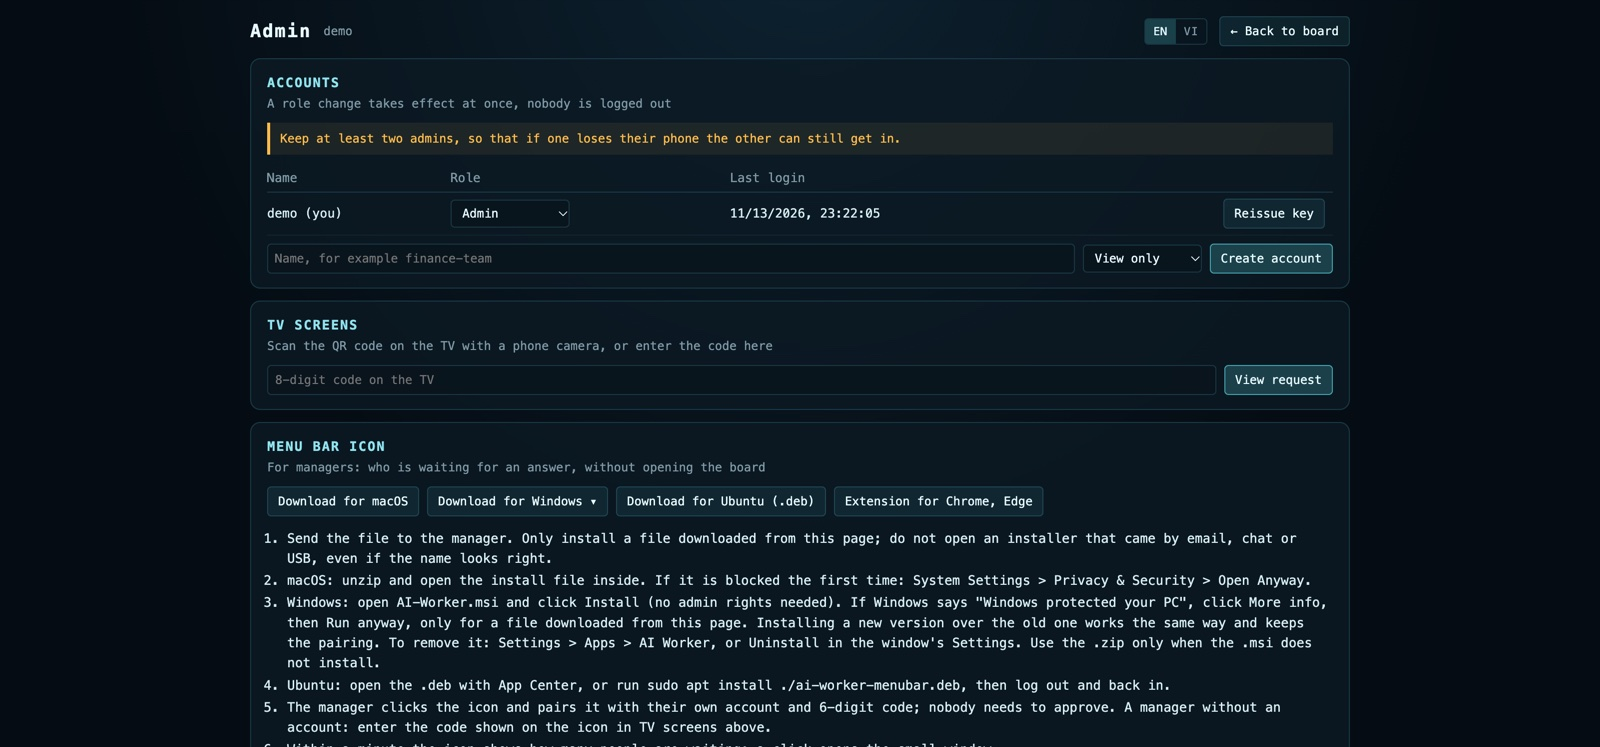
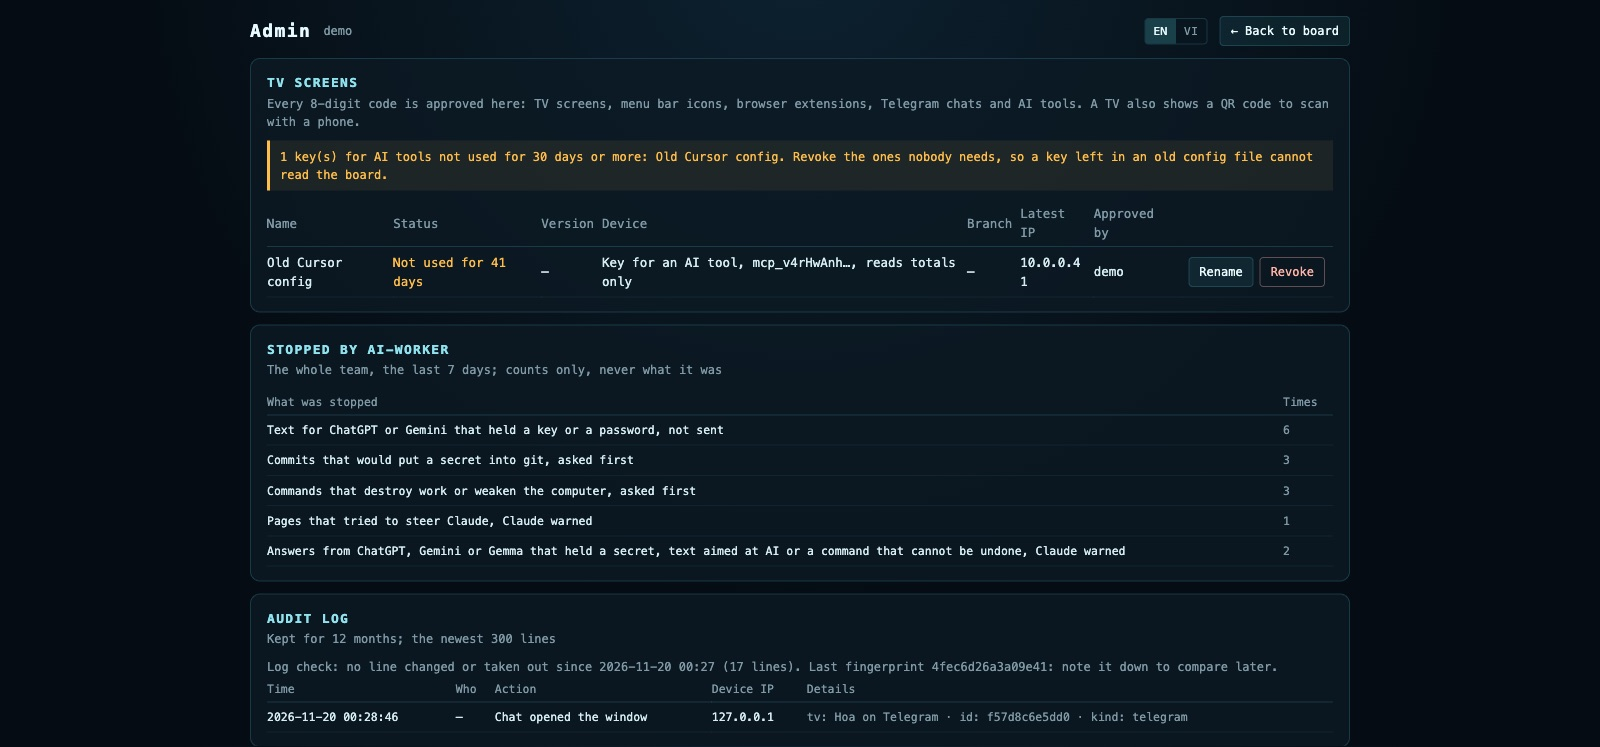
0.47.7: Vietnamese AI project reports write days as DD/MM/YYYY, and the README leads with the cost and performance report

diff --git a/server/board/costreport.py b/server/board/costreport.py
@@ -321,6 +321,17 @@ def num(v, digits=0):
     return "{:,.{d}f}".format(v, d=digits)
 
 
+DAY_RE = re.compile(r"\b(\d{4})-(\d{2})-(\d{2})\b")
+
+
+def show_dates(text, L):
+    """Every day written YYYY-MM-DD in a text, the way the report's language writes it: DD/MM/YYYY in Vietnamese, as it is in English.
+    Only what people read changes; the CSV, the file names and --from/--to keep YYYY-MM-DD.
+    Mọi ngày viết YYYY-MM-DD trong một đoạn chữ, theo cách ngôn ngữ của báo cáo viết: DD/MM/YYYY trong tiếng Việt, giữ nguyên trong tiếng Anh.
+    Chỉ đổi chỗ người đọc; CSV, tên file và --from/--to vẫn giữ YYYY-MM-DD."""
+    return DAY_RE.sub(r"\3/\2/\1", text) if L.get("lang") == "vi" else text
+
+
 def load_labels(lang):
     with open(os.path.join(HERE, "labels.json"), encoding="utf-8") as f:
         labels = json.load(f)
@@ -404,7 +415,7 @@ def render_html(r, L, prices, title, env, period, screen=False):
     """The report as one HTML page: by default the paper version, to print or save as PDF; screen=True is the version a page shows.
     Báo cáo dạng một trang HTML: mặc định là bản giấy, để in hay lưu PDF; screen=True là bản để một trang web hiện."""
     e = html.escape
-    made = datetime.now(timezone.utc).strftime("%Y-%m-%d %H:%M UTC")
+    made = show_dates(datetime.now(timezone.utc).strftime("%Y-%m-%d %H:%M UTC"), L)
     if screen:
         style = CSS
     else:
@@ -414,8 +425,9 @@ def render_html(r, L, prices, title, env, period, screen=False):
         style = PAPER_CSS % {"foot": foot}
     out = ['<!doctype html><html lang="%s"><head><meta charset="utf-8"><meta name="viewport" content="width=device-width,initial-scale=1">' % e(L["lang"]),
            "<title>%s</title><style>%s</style></head><body>" % (e(title), style)]
-    first = r["first"].strftime("%Y-%m-%d %H:%M") if r["first"] else "-"
-    last = r["last"].strftime("%Y-%m-%d %H:%M") if r["last"] else "-"
+    first = show_dates(r["first"].strftime("%Y-%m-%d %H:%M"), L) if r["first"] else "-"
+    last = show_dates(r["last"].strftime("%Y-%m-%d %H:%M"), L) if r["last"] else "-"
+    period = show_dates(period, L)
     if screen:
         out.append("<main><h1>%s</h1>" % e(title))
         span = "%s: %s → %s UTC · " % (e(L["period"]), first, last) if r["first"] else ""
@@ -495,7 +507,7 @@ def render_html(r, L, prices, title, env, period, screen=False):
         if a["costTurns"] and a["unpricedTurns"]:
             cost += " *"
         rows.append('<tr><td>%s</td><td>%s</td>%s%s<td class="t">%s</td><td>%s</td></tr>' % (
-            e(model), e(prov), "".join("<td>%s</td>" % num(a[k]) for k in ("turns", "calls", "errors", "retries")), "".join(toks), e(cost), e(pdate)))
+            e(model), e(prov), "".join("<td>%s</td>" % num(a[k]) for k in ("turns", "calls", "errors", "retries")), "".join(toks), e(cost), e(show_dates(pdate, L))))
     out.append(table(rows, "models"))
 
     if r["alt"]:
@@ -512,7 +524,7 @@ def render_html(r, L, prices, title, env, period, screen=False):
     rows = ["<tr><th>%s</th><th>%s</th><th>%s</th><th>%s</th><th>%s</th><th>%s</th></tr>" % tuple(e(L[k]) for k in ("day", "turns", "errorsTimeouts", "avgMs", "p95Ms", "cost"))]
     for day, d in sorted(r["days"].items()):
         rows.append("<tr><td>%s</td><td>%s</td><td>%s</td><td>%s</td><td>%s</td><td>%s</td></tr>" % (
-            day, num(d["turns"]), num(d["errors"]), num(avg(d["ms"])), num(p95(d["ms"])), e(usd(d["cost"]) if d["costTurns"] else "-")))
+            show_dates(day, L), num(d["turns"]), num(d["errors"]), num(avg(d["ms"])), num(p95(d["ms"])), e(usd(d["cost"]) if d["costTurns"] else "-")))
     out.append(table(rows))
 
     return "".join(out + sources(prices, L, e))
@@ -525,11 +537,11 @@ def sources(prices, L, e):
     for prov, p in sorted(prices.doc.get("providers", {}).items()):
         if p.get("yours") or not str(p.get("source", "")).startswith("https://"):
             continue
-        out.append('<li>%s: <a href="%s">%s</a> (%s %s)</li>' % (e(prov), e(p["source"]), e(p["source"]), e(L["checked"]), e(p["checked"])))
+        out.append('<li>%s: <a href="%s">%s</a> (%s %s)</li>' % (e(prov), e(p["source"]), e(p["source"]), e(L["checked"]), e(show_dates(p["checked"], L))))
     for name in prices.yours:
         out.append("<li>%s</li>" % e(L["yourPrices"] % {"file": name}))
     out.append("</ul>")
-    out.append("<footer>%s</footer></section></main></body></html>" % e(L["footer"] % {"made": datetime.now(timezone.utc).strftime("%Y-%m-%d %H:%M UTC")}))
+    out.append("<footer>%s</footer></section></main></body></html>" % e(L["footer"] % {"made": show_dates(datetime.now(timezone.utc).strftime("%Y-%m-%d %H:%M UTC"), L)}))
     return out
 
 

diff --git a/skills/ai-cost-report/report.py b/skills/ai-cost-report/report.py
@@ -321,6 +321,17 @@ def num(v, digits=0):
     return "{:,.{d}f}".format(v, d=digits)
 
 
+DAY_RE = re.compile(r"\b(\d{4})-(\d{2})-(\d{2})\b")
+
+
+def show_dates(text, L):
+    """Every day written YYYY-MM-DD in a text, the way the report's language writes it: DD/MM/YYYY in Vietnamese, as it is in English.
+    Only what people read changes; the CSV, the file names and --from/--to keep YYYY-MM-DD.
+    Mọi ngày viết YYYY-MM-DD trong một đoạn chữ, theo cách ngôn ngữ của báo cáo viết: DD/MM/YYYY trong tiếng Việt, giữ nguyên trong tiếng Anh.
+    Chỉ đổi chỗ người đọc; CSV, tên file và --from/--to vẫn giữ YYYY-MM-DD."""
+    return DAY_RE.sub(r"\3/\2/\1", text) if L.get("lang") == "vi" else text
+
+
 def load_labels(lang):
     with open(os.path.join(HERE, "labels.json"), encoding="utf-8") as f:
         labels = json.load(f)
@@ -404,7 +415,7 @@ def render_html(r, L, prices, title, env, period, screen=False):
     """The report as one HTML page: by default the paper version, to print or save as PDF; screen=True is the version a page shows.
     Báo cáo dạng một trang HTML: mặc định là bản giấy, để in hay lưu PDF; screen=True là bản để một trang web hiện."""
     e = html.escape
-    made = datetime.now(timezone.utc).strftime("%Y-%m-%d %H:%M UTC")
+    made = show_dates(datetime.now(timezone.utc).strftime("%Y-%m-%d %H:%M UTC"), L)
     if screen:
         style = CSS
     else:
@@ -414,8 +425,9 @@ def render_html(r, L, prices, title, env, period, screen=False):
         style = PAPER_CSS % {"foot": foot}
     out = ['<!doctype html><html lang="%s"><head><meta charset="utf-8"><meta name="viewport" content="width=device-width,initial-scale=1">' % e(L["lang"]),
            "<title>%s</title><style>%s</style></head><body>" % (e(title), style)]
-    first = r["first"].strftime("%Y-%m-%d %H:%M") if r["first"] else "-"
-    last = r["last"].strftime("%Y-%m-%d %H:%M") if r["last"] else "-"
+    first = show_dates(r["first"].strftime("%Y-%m-%d %H:%M"), L) if r["first"] else "-"
+    last = show_dates(r["last"].strftime("%Y-%m-%d %H:%M"), L) if r["last"] else "-"
+    period = show_dates(period, L)
     if screen:
         out.append("<main><h1>%s</h1>" % e(title))
         span = "%s: %s → %s UTC · " % (e(L["period"]), first, last) if r["first"] else ""
@@ -495,7 +507,7 @@ def render_html(r, L, prices, title, env, period, screen=False):
         if a["costTurns"] and a["unpricedTurns"]:
             cost += " *"
         rows.append('<tr><td>%s</td><td>%s</td>%s%s<td class="t">%s</td><td>%s</td></tr>' % (
-            e(model), e(prov), "".join("<td>%s</td>" % num(a[k]) for k in ("turns", "calls", "errors", "retries")), "".join(toks), e(cost), e(pdate)))
+            e(model), e(prov), "".join("<td>%s</td>" % num(a[k]) for k in ("turns", "calls", "errors", "retries")), "".join(toks), e(cost), e(show_dates(pdate, L))))
     out.append(table(rows, "models"))
 
     if r["alt"]:
@@ -512,7 +524,7 @@ def render_html(r, L, prices, title, env, period, screen=False):
     rows = ["<tr><th>%s</th><th>%s</th><th>%s</th><th>%s</th><th>%s</th><th>%s</th></tr>" % tuple(e(L[k]) for k in ("day", "turns", "errorsTimeouts", "avgMs", "p95Ms", "cost"))]
     for day, d in sorted(r["days"].items()):
         rows.append("<tr><td>%s</td><td>%s</td><td>%s</td><td>%s</td><td>%s</td><td>%s</td></tr>" % (
-            day, num(d["turns"]), num(d["errors"]), num(avg(d["ms"])), num(p95(d["ms"])), e(usd(d["cost"]) if d["costTurns"] else "-")))
+            show_dates(day, L), num(d["turns"]), num(d["errors"]), num(avg(d["ms"])), num(p95(d["ms"])), e(usd(d["cost"]) if d["costTurns"] else "-")))
     out.append(table(rows))
 
     return "".join(out + sources(prices, L, e))
@@ -525,11 +537,11 @@ def sources(prices, L, e):
     for prov, p in sorted(prices.doc.get("providers", {}).items()):
         if p.get("yours") or not str(p.get("source", "")).startswith("https://"):
             continue
-        out.append('<li>%s: <a href="%s">%s</a> (%s %s)</li>' % (e(prov), e(p["source"]), e(p["source"]), e(L["checked"]), e(p["checked"])))
+        out.append('<li>%s: <a href="%s">%s</a> (%s %s)</li>' % (e(prov), e(p["source"]), e(p["source"]), e(L["checked"]), e(show_dates(p["checked"], L))))
     for name in prices.yours:
         out.append("<li>%s</li>" % e(L["yourPrices"] % {"file": name}))
     out.append("</ul>")
-    out.append("<footer>%s</footer></section></main></body></html>" % e(L["footer"] % {"made": datetime.now(timezone.utc).strftime("%Y-%m-%d %H:%M UTC")}))
+    out.append("<footer>%s</footer></section></main></body></html>" % e(L["footer"] % {"made": show_dates(datetime.now(timezone.utc).strftime("%Y-%m-%d %H:%M UTC"), L)}))
     return out
 
 

diff --git a/server/board/pages.py b/server/board/pages.py
@@ -1307,17 +1307,20 @@ def page_projects(known: dict, project: str, first: str, last: str, env: str, no
                 e(query), e(tx("Open the print version (save as PDF)")), e(query), e(tx("Download CSV")))
     page = projects.report_html(project, known[project], first, last, env, lang, now, screen=True)
     oldest = projects.utc_day(now - settings.PROJECT_TURN_KEEP_DAYS * 86400)
+    # days read the way the page's language writes them (DD/MM/YYYY in Vietnamese); the form and the links keep YYYY-MM-DD
+    # ngày viết theo cách ngôn ngữ của trang viết (DD/MM/YYYY trong tiếng Việt); ô chọn ngày và các link vẫn giữ YYYY-MM-DD
+    shown = lambda text: projects.costreport.show_dates(text, {"lang": lang})
     notes = ""
     if first < oldest:
         notes = '<p class="note">%s</p>' % e(tx("Each turn is kept {days} days, so the report above covers {oldest} onwards and its 95th percentile only those days. The table at the bottom has the totals per day, kept 13 months.",
-                                                days=settings.PROJECT_TURN_KEEP_DAYS, oldest=oldest))
+                                                days=settings.PROJECT_TURN_KEEP_DAYS, oldest=shown(oldest)))
     rows = projects.daily_rows(project, first, last, env)
     money = lambda pico: "$%.4f" % (pico / projects.costreport.PICO)
     table = ""
     if rows:
         head = "".join("<th>%s</th>" % e(x) for x in (tx("Day"), tx("Turns"), tx("LLM calls"), tx("Errors"), tx("Tokens in"), tx("Tokens out"), tx("Cost")))
         body_rows = "".join("<tr><td>%s</td><td>%s</td><td>%s</td><td>%s</td><td>%s</td><td>%s</td><td>%s</td></tr>" % (
-            r["day"], "{:,}".format(r["turns"]), "{:,}".format(r["calls"]), "{:,}".format(r["errors"]), "{:,}".format(r["input"]), "{:,}".format(r["output"]),
+            shown(r["day"]), "{:,}".format(r["turns"]), "{:,}".format(r["calls"]), "{:,}".format(r["errors"]), "{:,}".format(r["input"]), "{:,}".format(r["output"]),
             e((money(r["cost"]) + " *" if r["cost"] else tx("no price")) if r["noPrice"] else money(r["cost"]))) for r in rows)
         table = ('<h2>%s</h2><p class="note">%s</p><div class="wrap"><table><tr>%s</tr>%s</table></div>') % (
             e(tx("Totals per day, kept 13 months")), e(tx("Tokens in include cache reads and writes. * means part of that day used a model with no price, left out of the cost.")), head, body_rows)

diff --git a/server/test_projects.py b/server/test_projects.py
@@ -358,6 +358,20 @@ class Clean(unittest.TestCase):
     def test_p95_is_nearest_rank(self):
         self.assertEqual(costreport.p95(list(range(1, 21))), 19)
 
+    def test_vietnamese_reads_days_as_dd_mm_yyyy_and_the_csv_does_not(self):
+        at = datetime(2026, 11, 19, 8, 30, tzinfo=timezone.utc)
+        turn = costreport.clean_line({"v": 1, "turnId": "a" * 16, "at": at.strftime("%Y-%m-%dT%H:%M:%S.000Z"), "durationMs": 900, "outcome": "ok", "env": "prod",
+                                      "models": [{"provider": "anthropic", "model": "claude-sonnet-5-5", "calls": 1, "input": 100, "output": 20}]})
+        r = costreport.analyse([turn], projects.prices())
+        vi = costreport.render_html(r, costreport.load_labels("vi"), projects.prices(), "T", "prod", "Filter 2026-11-06 → 2026-11-19")
+        en = costreport.render_html(r, costreport.load_labels("en"), projects.prices(), "T", "prod", "Filter 2026-11-06 → 2026-11-19")
+        self.assertIn("19/11/2026", vi)
+        self.assertIn("06/11/2026 → 19/11/2026", vi)
+        self.assertNotRegex(vi.split("</style>", 1)[1], r"\b20\d\d-\d\d-\d\d\b")
+        self.assertIn("2026-11-19", en)
+        self.assertNotIn("19/11/2026", en)
+        self.assertIn("2026-11-19", costreport.csv_text(r))
+
 
 if __name__ == "__main__":
     unittest.main()

diff --git a/README.vi.md b/README.vi.md
@@ -2,7 +2,7 @@ Tiếng Việt | [English](README.md)
 
 # AI Worker
 
-Đo chi phí và tốc độ AI, từ cả team tới từng sản phẩm AI bạn làm; không để AI làm lộ mật khẩu, khoá API; tất cả chạy trên máy chủ riêng của bạn.
+Đo chi phí và tốc độ AI từ cả team tới từng sản phẩm AI bạn làm, biến quy trình của phòng thành skill, không để AI làm lộ mật khẩu; tất cả trên máy chủ riêng của bạn.
 
 <p>
   <a href="LICENSE"><img alt="Giấy phép MIT" src="https://img.shields.io/badge/license-MIT-0a0a0a.svg?style=for-the-badge&amp;labelColor=000000" height="28"></a>
@@ -15,22 +15,26 @@ Báo cáo sử dụng cho biết công ty đã tiêu bao nhiêu cho AI. AI Worke
 
 - **Thấy người, không chỉ thấy số.** Bảng trực tiếp cho biết ai đang làm, ai đang chờ trả lời và đã chờ bao lâu, với Claude, Codex, Cursor, Gemini CLI và các trợ lý phụ: trên trình duyệt, TV treo tường, thanh menu hay ngay trong Telegram.
 - **Báo cáo chi phí và tốc độ cho dự án AI của bạn.** Chép một file vào dự án (Python, JavaScript, TypeScript, C#, Go, Java, Rust, C/C++), dùng hãng LLM nào cũng được, là có báo cáo đo thật: tiền mỗi lượt và mỗi 1.000 lượt, thời gian trung bình, p95 và lượt chậm nhất, theo model. In ra PDF là nộp được. Xem [đo một dự án hay ứng dụng AI](docs/AI-PROJECTS.vi.md).
-- **Skill dùng được ngay, không chỉ cho dân code.** `ai-cost-report` làm báo cáo trên; `make-skill` biến một SOP thành skill cho cả phòng; `qa-test` tự test web và app iOS, Android rồi viết bug report gửi dev; `draw-flow` vẽ sơ đồ luồng có cả nhánh lỗi; `meeting-notes` ra biên bản họp có người phụ trách và hạn chót; `handoff` ghi bàn giao để phiên sau làm tiếp. Xem [đủ danh sách skill](docs/SKILLS.vi.md).
+- **Biến quy trình của phòng thành skill.** Đưa cho `make-skill` một SOP hay một đoạn mô tả cách làm một việc: nó viết bản nháp skill để Claude làm đúng theo quy trình đó, dừng lại khi gặp mật khẩu hay khoá, bỏ dữ liệu cá nhân ra, và chỉ bật skill khi bạn đồng ý.
+- **Skill dùng được ngay, không chỉ cho dân code.** `ai-cost-report` làm báo cáo trên; `qa-test` tự test web và app iOS, Android rồi viết bug report gửi dev; `draw-flow` vẽ sơ đồ luồng có cả nhánh lỗi; `meeting-notes` ra biên bản họp có người phụ trách và hạn chót; `handoff` ghi bàn giao để phiên sau làm tiếp. Xem [đủ danh sách skill](docs/SKILLS.vi.md).
 - **Không đọc nội dung công việc.** Máy nhân viên chỉ gửi tên và các con số (phiên, token, chi phí, hạn mức). Chat, câu hỏi, tên file không bao giờ được gửi lên bảng, và số liệu nằm trên máy chủ của chính bạn.
 - **Cả văn phòng dùng được, miễn phí.** Nhân viên bấm đúp bộ cài, gõ họ tên là xong. Không cần gói Team, Enterprise hay phần mềm quản lý thiết bị; có tiếng Việt. Mã nguồn mở (MIT), máy chủ chỉ cần một máy Linux với Python và SQLite.
 
 <!-- one row that scrolls sideways, one picture to a view. GitHub shrinks pictures in a table to fit the page; the line of em spaces under each caption cannot wrap (nowrap), so it holds the cell at the width of the page -->
 <table>
   <tr>
+    <td nowrap align="center" valign="top"><img src="assets/report.vi.jpg" alt="Báo cáo chi phí và hiệu năng khổ A4 của một dự án AI mẫu: các con số chính, bảng theo model, bảng theo ngày" height="377"><br><sub><b>Báo cáo chi phí và hiệu năng (dự án mẫu).</b> Đo thật từ từng lượt: chi phí mỗi lượt, thời gian p95, theo model; in ra PDF A4.</sub><br>&emsp;&emsp;&emsp;&emsp;&emsp;&emsp;&emsp;&emsp;&emsp;&emsp;&emsp;&emsp;&emsp;&emsp;&emsp;&emsp;&emsp;&emsp;&emsp;&emsp;&emsp;&emsp;&emsp;&emsp;&emsp;&emsp;&emsp;&emsp;&emsp;&emsp;&emsp;&emsp;&emsp;&emsp;&emsp;&emsp;&emsp;&emsp;&emsp;&emsp;&emsp;&emsp;&emsp;&emsp;&emsp;&emsp;&emsp;&emsp;&emsp;&emsp;&emsp;&ensp;</td>
+    <td nowrap align="center" valign="top"><img src="assets/projects.vi.jpg" alt="Trang Dự án AI trên bảng: chọn dự án, khoảng ngày, môi trường, rồi xem các con số" width="808"><br><sub><b>Trang Dự án AI.</b> Chọn dự án, khoảng ngày và môi trường; cùng báo cáo đó trên màn hình, kèm CSV.</sub><br>&emsp;&emsp;&emsp;&emsp;&emsp;&emsp;&emsp;&emsp;&emsp;&emsp;&emsp;&emsp;&emsp;&emsp;&emsp;&emsp;&emsp;&emsp;&emsp;&emsp;&emsp;&emsp;&emsp;&emsp;&emsp;&emsp;&emsp;&emsp;&emsp;&emsp;&emsp;&emsp;&emsp;&emsp;&emsp;&emsp;&emsp;&emsp;&emsp;&emsp;&emsp;&emsp;&emsp;&emsp;&emsp;&emsp;&emsp;&emsp;&emsp;&emsp;&emsp;&ensp;</td>
     <td nowrap align="center" valign="top"><img src="assets/dashboard.vi.png" alt="Bảng điều hành 3D với dữ liệu mẫu" height="377"><br><sub><b>Bảng điều hành (dữ liệu mẫu).</b> Ai đang làm, ai chờ trả lời, chi phí và hạn mức, cập nhật trực tiếp.</sub><br>&emsp;&emsp;&emsp;&emsp;&emsp;&emsp;&emsp;&emsp;&emsp;&emsp;&emsp;&emsp;&emsp;&emsp;&emsp;&emsp;&emsp;&emsp;&emsp;&emsp;&emsp;&emsp;&emsp;&emsp;&emsp;&emsp;&emsp;&emsp;&emsp;&emsp;&emsp;&emsp;&emsp;&emsp;&emsp;&emsp;&emsp;&emsp;&emsp;&emsp;&emsp;&emsp;&emsp;&emsp;&emsp;&emsp;&emsp;&emsp;&emsp;&emsp;&emsp;&ensp;</td>
     <td nowrap align="center" valign="top"><img src="assets/map-2d.jpg" alt="Bản đồ phẳng với bốn văn phòng" width="808"><br><sub><b>Bản đồ phẳng.</b> Mỗi văn phòng hiện số người đang làm, chi phí hôm nay và trợ lý đang dùng.</sub><br>&emsp;&emsp;&emsp;&emsp;&emsp;&emsp;&emsp;&emsp;&emsp;&emsp;&emsp;&emsp;&emsp;&emsp;&emsp;&emsp;&emsp;&emsp;&emsp;&emsp;&emsp;&emsp;&emsp;&emsp;&emsp;&emsp;&emsp;&emsp;&emsp;&emsp;&emsp;&emsp;&emsp;&emsp;&emsp;&emsp;&emsp;&emsp;&emsp;&emsp;&emsp;&emsp;&emsp;&emsp;&emsp;&emsp;&emsp;&emsp;&emsp;&emsp;&emsp;&ensp;</td>
     <td nowrap align="center" valign="top"><img src="assets/map-25d.jpg" alt="Bản đồ nghiêng, mỗi văn phòng có một cột" width="808"><br><sub><b>Bản đồ 2.5D.</b> Cột trên mỗi văn phòng thể hiện chi phí, số người hoặc hạn mức, tuỳ bạn chọn.</sub><br>&emsp;&emsp;&emsp;&emsp;&emsp;&emsp;&emsp;&emsp;&emsp;&emsp;&emsp;&emsp;&emsp;&emsp;&emsp;&emsp;&emsp;&emsp;&emsp;&emsp;&emsp;&emsp;&emsp;&emsp;&emsp;&emsp;&emsp;&emsp;&emsp;&emsp;&emsp;&emsp;&emsp;&emsp;&emsp;&emsp;&emsp;&emsp;&emsp;&emsp;&emsp;&emsp;&emsp;&emsp;&emsp;&emsp;&emsp;&emsp;&emsp;&emsp;&emsp;&ensp;</td>
     <td nowrap align="center" valign="top"><img src="assets/globe.jpg" alt="Quả địa cầu có đánh dấu các văn phòng" width="808"><br><sub><b>Quả địa cầu.</b> Vẫn các văn phòng đó trên quả địa cầu 3D: kéo để xoay, cuộn để phóng to, thu nhỏ.</sub><br>&emsp;&emsp;&emsp;&emsp;&emsp;&emsp;&emsp;&emsp;&emsp;&emsp;&emsp;&emsp;&emsp;&emsp;&emsp;&emsp;&emsp;&emsp;&emsp;&emsp;&emsp;&emsp;&emsp;&emsp;&emsp;&emsp;&emsp;&emsp;&emsp;&emsp;&emsp;&emsp;&emsp;&emsp;&emsp;&emsp;&emsp;&emsp;&emsp;&emsp;&emsp;&emsp;&emsp;&emsp;&emsp;&emsp;&emsp;&emsp;&emsp;&emsp;&emsp;&ensp;</td>
     <td nowrap align="center" valign="top"><img src="assets/wall.jpg" alt="Màn hình treo tường với sơ đồ và ba vòng hạn mức" width="808"><br><sub><b>Màn hình treo tường.</b> Dành cho TV: toàn màn hình, có vòng hạn mức, ghép bằng mã do quản trị duyệt.</sub><br>&emsp;&emsp;&emsp;&emsp;&emsp;&emsp;&emsp;&emsp;&emsp;&emsp;&emsp;&emsp;&emsp;&emsp;&emsp;&emsp;&emsp;&emsp;&emsp;&emsp;&emsp;&emsp;&emsp;&emsp;&emsp;&emsp;&emsp;&emsp;&emsp;&emsp;&emsp;&emsp;&emsp;&emsp;&emsp;&emsp;&emsp;&emsp;&emsp;&emsp;&emsp;&emsp;&emsp;&emsp;&emsp;&emsp;&emsp;&emsp;&emsp;&emsp;&emsp;&ensp;</td>
     <td nowrap align="center" valign="top"><img src="assets/board.jpg" alt="Bảng mỗi người một dòng" width="808"><br><sub><b>Bảng chi tiết.</b> Mỗi người một dòng: trạng thái, mô hình, hạn mức, chi phí, token, bản plugin.</sub><br>&emsp;&emsp;&emsp;&emsp;&emsp;&emsp;&emsp;&emsp;&emsp;&emsp;&emsp;&emsp;&emsp;&emsp;&emsp;&emsp;&emsp;&emsp;&emsp;&emsp;&emsp;&emsp;&emsp;&emsp;&emsp;&emsp;&emsp;&emsp;&emsp;&emsp;&emsp;&emsp;&emsp;&emsp;&emsp;&emsp;&emsp;&emsp;&emsp;&emsp;&emsp;&emsp;&emsp;&emsp;&emsp;&emsp;&emsp;&emsp;&emsp;&emsp;&emsp;&ensp;</td>
-    <td nowrap align="center" valign="top"><img src="assets/admin.jpg" alt="Trang quản trị với tài khoản, màn hình TV và các bản tải về" width="808"><br><sub><b>Trang quản trị.</b> Tài khoản và vai trò, ghép màn hình TV, tải biểu tượng thanh menu và tiện ích.</sub><br>&emsp;&emsp;&emsp;&emsp;&emsp;&emsp;&emsp;&emsp;&emsp;&emsp;&emsp;&emsp;&emsp;&emsp;&emsp;&emsp;&emsp;&emsp;&emsp;&emsp;&emsp;&emsp;&emsp;&emsp;&emsp;&emsp;&emsp;&emsp;&emsp;&emsp;&emsp;&emsp;&emsp;&emsp;&emsp;&emsp;&emsp;&emsp;&emsp;&emsp;&emsp;&emsp;&emsp;&emsp;&emsp;&emsp;&emsp;&emsp;&emsp;&emsp;&emsp;&ensp;</td>
+    <td nowrap align="center" valign="top"><img src="assets/admin.jpg" alt="Trang quản trị: khoá công cụ AI không dùng 41 ngày, các lần ai-worker đã chặn trong 7 ngày, dòng kiểm nhật ký" width="808"><br><sub><b>Trang quản trị.</b> Những gì ai-worker đã chặn, kiểm nhật ký không bị sửa, khoá công cụ AI bỏ quên.</sub><br>&emsp;&emsp;&emsp;&emsp;&emsp;&emsp;&emsp;&emsp;&emsp;&emsp;&emsp;&emsp;&emsp;&emsp;&emsp;&emsp;&emsp;&emsp;&emsp;&emsp;&emsp;&emsp;&emsp;&emsp;&emsp;&emsp;&emsp;&emsp;&emsp;&emsp;&emsp;&emsp;&emsp;&emsp;&emsp;&emsp;&emsp;&emsp;&emsp;&emsp;&emsp;&emsp;&emsp;&emsp;&emsp;&emsp;&emsp;&emsp;&emsp;&emsp;&emsp;&ensp;</td>
     <td nowrap align="center" valign="top"><img src="assets/login.png" alt="Trang đăng nhập: tên tài khoản và mã 6 số, hoặc Log in with Telegram" height="377"><br><sub><b>Đăng nhập.</b> Tên tài khoản và mã 6 số, hoặc Log in with Telegram.</sub><br>&emsp;&emsp;&emsp;&emsp;&emsp;&emsp;&emsp;&emsp;&emsp;&emsp;&emsp;&emsp;&emsp;&emsp;&emsp;&emsp;&emsp;&emsp;&emsp;&emsp;&emsp;&emsp;&emsp;&emsp;&emsp;&emsp;&emsp;&emsp;&emsp;&emsp;&emsp;&emsp;&emsp;&emsp;&emsp;&emsp;&emsp;&emsp;&emsp;&emsp;&emsp;&emsp;&emsp;&emsp;&emsp;&emsp;&emsp;&emsp;&emsp;&emsp;&emsp;&ensp;</td>
     <td nowrap align="center" valign="top"><img src="assets/phone.jpg" alt="Bảng trên màn hình hẹp, các ô xếp chồng lên nhau" height="377"><br><sub><b>Màn hình hẹp.</b> Trên điện thoại các ô xếp chồng lên nhau, từ trên xuống dưới.</sub><br>&emsp;&emsp;&emsp;&emsp;&emsp;&emsp;&emsp;&emsp;&emsp;&emsp;&emsp;&emsp;&emsp;&emsp;&emsp;&emsp;&emsp;&emsp;&emsp;&emsp;&emsp;&emsp;&emsp;&emsp;&emsp;&emsp;&emsp;&emsp;&emsp;&emsp;&emsp;&emsp;&emsp;&emsp;&emsp;&emsp;&emsp;&emsp;&emsp;&emsp;&emsp;&emsp;&emsp;&emsp;&emsp;&emsp;&emsp;&emsp;&emsp;&emsp;&emsp;&ensp;</td>
+    <td nowrap align="center" valign="top"><img src="assets/telegram.vi.jpg" alt="Khung bảng trong Telegram trên điện thoại: số người chờ, chi phí 7 ngày, danh sách đang chờ" height="377"><br><sub><b>Trong Telegram.</b> Quản lý bấm nút của bot: ai đang chờ, chi phí 7 ngày, hạn mức.</sub><br>&emsp;&emsp;&emsp;&emsp;&emsp;&emsp;&emsp;&emsp;&emsp;&emsp;&emsp;&emsp;&emsp;&emsp;&emsp;&emsp;&emsp;&emsp;&emsp;&emsp;&emsp;&emsp;&emsp;&emsp;&emsp;&emsp;&emsp;&emsp;&emsp;&emsp;&emsp;&emsp;&emsp;&emsp;&emsp;&emsp;&emsp;&emsp;&emsp;&emsp;&emsp;&emsp;&emsp;&emsp;&emsp;&emsp;&emsp;&emsp;&emsp;&emsp;&emsp;&ensp;</td>
   </tr>
 </table>
 

diff --git a/README.md b/README.md
@@ -2,7 +2,7 @@
 
 # AI Worker
 
-Measure AI cost and speed, from your whole team to every AI product you build; don't let AI leak your passwords or API keys; run it all on your own server.
+Measure AI cost and speed from your whole team to every AI product you build, turn your team's procedures into skills, keep AI from leaking your passwords; all on your own server.
 
 <p>
   <a href="LICENSE"><img alt="License: MIT" src="https://img.shields.io/badge/license-MIT-0a0a0a.svg?style=for-the-badge&amp;labelColor=000000" height="28"></a>
@@ -15,22 +15,26 @@ Usage reports tell you what the company spent on AI. AI Worker tells you **who n
 
 - **People, not just numbers.** A live board shows who is working, who is waiting for an answer and for how long, across Claude, Codex, Cursor, Gemini CLI and the helper assistants: in a browser, on a TV wall screen, from the menu bar or inside Telegram.
 - **A cost and speed report for your own AI project.** Copy one file into the project (Python, JavaScript, TypeScript, C#, Go, Java, Rust, C/C++), with any LLM provider, and get a measured report: cost per use and per 1,000 uses, average, 95th percentile and slowest time, by model. Print it to PDF and hand it in. See [measure an AI project or application](docs/AI-PROJECTS.md).
-- **Skills that work out of the box, not only for developers.** `ai-cost-report` makes that report; `make-skill` turns an SOP into a skill for the whole team; `qa-test` tests a web page or an iOS or Android app and writes the bug report for the developers; `draw-flow` draws how a flow works, failure paths included; `meeting-notes` turns notes into minutes with owners and deadlines; `handoff` leaves a note so the next session carries on. See [every skill](docs/SKILLS.md).
+- **Turn your team's procedures into skills.** Give `make-skill` an SOP or a description of how a job is done: it writes a draft skill so Claude follows that procedure, stops at passwords and keys, leaves personal data out, and switches the skill on only after you say yes.
+- **Skills that work out of the box, not only for developers.** `ai-cost-report` makes that report; `qa-test` tests a web page or an iOS or Android app and writes the bug report for the developers; `draw-flow` draws how a flow works, failure paths included; `meeting-notes` turns notes into minutes with owners and deadlines; `handoff` leaves a note so the next session carries on. See [every skill](docs/SKILLS.md).
 - **It never reads the work.** Computers send names and numbers only (sessions, tokens, cost, quota). Chats, prompts and file names are never sent to the board, and the data lives on your own server.
 - **The whole office can use it, free.** Staff double-click an installer and type their name. No Team or Enterprise plan, no device management; English and Vietnamese. Open source (MIT); the server needs one Linux machine with Python and SQLite.
 
 <!-- one row that scrolls sideways, one picture to a view. GitHub shrinks pictures in a table to fit the page; the line of em spaces under each caption cannot wrap (nowrap), so it holds the cell at the width of the page -->
 <table>
   <tr>
+    <td nowrap align="center" valign="top"><img src="assets/report.jpg" alt="A4 cost and performance report of a sample AI project: key numbers, a table by model and a table by day" height="377"><br><sub><b>Cost and performance report (sample project).</b> Measured from each real turn: cost per use, p95 time, by model; prints as an A4 PDF.</sub><br>&emsp;&emsp;&emsp;&emsp;&emsp;&emsp;&emsp;&emsp;&emsp;&emsp;&emsp;&emsp;&emsp;&emsp;&emsp;&emsp;&emsp;&emsp;&emsp;&emsp;&emsp;&emsp;&emsp;&emsp;&emsp;&emsp;&emsp;&emsp;&emsp;&emsp;&emsp;&emsp;&emsp;&emsp;&emsp;&emsp;&emsp;&emsp;&emsp;&emsp;&emsp;&emsp;&emsp;&emsp;&emsp;&emsp;&emsp;&emsp;&emsp;&emsp;&emsp;&ensp;</td>
+    <td nowrap align="center" valign="top"><img src="assets/projects.jpg" alt="The AI projects page on the board: pick a project, the days and the environment, then read the numbers" width="808"><br><sub><b>AI projects page.</b> Pick a project, the days and the environment: the same report on screen, with a CSV.</sub><br>&emsp;&emsp;&emsp;&emsp;&emsp;&emsp;&emsp;&emsp;&emsp;&emsp;&emsp;&emsp;&emsp;&emsp;&emsp;&emsp;&emsp;&emsp;&emsp;&emsp;&emsp;&emsp;&emsp;&emsp;&emsp;&emsp;&emsp;&emsp;&emsp;&emsp;&emsp;&emsp;&emsp;&emsp;&emsp;&emsp;&emsp;&emsp;&emsp;&emsp;&emsp;&emsp;&emsp;&emsp;&emsp;&emsp;&emsp;&emsp;&emsp;&emsp;&emsp;&ensp;</td>
     <td nowrap align="center" valign="top"><img src="assets/dashboard.png" alt="The 3D operations board with sample data" height="377"><br><sub><b>Operations board (sample data).</b> Who is working, who waits for an answer, cost and quota, live.</sub><br>&emsp;&emsp;&emsp;&emsp;&emsp;&emsp;&emsp;&emsp;&emsp;&emsp;&emsp;&emsp;&emsp;&emsp;&emsp;&emsp;&emsp;&emsp;&emsp;&emsp;&emsp;&emsp;&emsp;&emsp;&emsp;&emsp;&emsp;&emsp;&emsp;&emsp;&emsp;&emsp;&emsp;&emsp;&emsp;&emsp;&emsp;&emsp;&emsp;&emsp;&emsp;&emsp;&emsp;&emsp;&emsp;&emsp;&emsp;&emsp;&emsp;&emsp;&emsp;&ensp;</td>
     <td nowrap align="center" valign="top"><img src="assets/map-2d.jpg" alt="Flat map with four offices" width="808"><br><sub><b>Flat map.</b> Each office shows people working, cost today and the assistants in use.</sub><br>&emsp;&emsp;&emsp;&emsp;&emsp;&emsp;&emsp;&emsp;&emsp;&emsp;&emsp;&emsp;&emsp;&emsp;&emsp;&emsp;&emsp;&emsp;&emsp;&emsp;&emsp;&emsp;&emsp;&emsp;&emsp;&emsp;&emsp;&emsp;&emsp;&emsp;&emsp;&emsp;&emsp;&emsp;&emsp;&emsp;&emsp;&emsp;&emsp;&emsp;&emsp;&emsp;&emsp;&emsp;&emsp;&emsp;&emsp;&emsp;&emsp;&emsp;&emsp;&ensp;</td>
     <td nowrap align="center" valign="top"><img src="assets/map-25d.jpg" alt="Tilted map with a column on each office" width="808"><br><sub><b>2.5D map.</b> The column on each office stands for cost, people or quota: you choose.</sub><br>&emsp;&emsp;&emsp;&emsp;&emsp;&emsp;&emsp;&emsp;&emsp;&emsp;&emsp;&emsp;&emsp;&emsp;&emsp;&emsp;&emsp;&emsp;&emsp;&emsp;&emsp;&emsp;&emsp;&emsp;&emsp;&emsp;&emsp;&emsp;&emsp;&emsp;&emsp;&emsp;&emsp;&emsp;&emsp;&emsp;&emsp;&emsp;&emsp;&emsp;&emsp;&emsp;&emsp;&emsp;&emsp;&emsp;&emsp;&emsp;&emsp;&emsp;&emsp;&ensp;</td>
     <td nowrap align="center" valign="top"><img src="assets/globe.jpg" alt="Globe with the offices marked" width="808"><br><sub><b>Globe.</b> The same offices on a 3D globe: drag to turn it, scroll to zoom in or out.</sub><br>&emsp;&emsp;&emsp;&emsp;&emsp;&emsp;&emsp;&emsp;&emsp;&emsp;&emsp;&emsp;&emsp;&emsp;&emsp;&emsp;&emsp;&emsp;&emsp;&emsp;&emsp;&emsp;&emsp;&emsp;&emsp;&emsp;&emsp;&emsp;&emsp;&emsp;&emsp;&emsp;&emsp;&emsp;&emsp;&emsp;&emsp;&emsp;&emsp;&emsp;&emsp;&emsp;&emsp;&emsp;&emsp;&emsp;&emsp;&emsp;&emsp;&emsp;&emsp;&ensp;</td>
     <td nowrap align="center" valign="top"><img src="assets/wall.jpg" alt="Wall screen with the diagram and three quota rings" width="808"><br><sub><b>Wall screen.</b> Made for a TV: full screen, quota rings, paired with a code an admin approves.</sub><br>&emsp;&emsp;&emsp;&emsp;&emsp;&emsp;&emsp;&emsp;&emsp;&emsp;&emsp;&emsp;&emsp;&emsp;&emsp;&emsp;&emsp;&emsp;&emsp;&emsp;&emsp;&emsp;&emsp;&emsp;&emsp;&emsp;&emsp;&emsp;&emsp;&emsp;&emsp;&emsp;&emsp;&emsp;&emsp;&emsp;&emsp;&emsp;&emsp;&emsp;&emsp;&emsp;&emsp;&emsp;&emsp;&emsp;&emsp;&emsp;&emsp;&emsp;&emsp;&ensp;</td>
     <td nowrap align="center" valign="top"><img src="assets/board.jpg" alt="Table with one row for each person" width="808"><br><sub><b>Detail board.</b> One row for each person: status, model, quota, cost, tokens, plugin version.</sub><br>&emsp;&emsp;&emsp;&emsp;&emsp;&emsp;&emsp;&emsp;&emsp;&emsp;&emsp;&emsp;&emsp;&emsp;&emsp;&emsp;&emsp;&emsp;&emsp;&emsp;&emsp;&emsp;&emsp;&emsp;&emsp;&emsp;&emsp;&emsp;&emsp;&emsp;&emsp;&emsp;&emsp;&emsp;&emsp;&emsp;&emsp;&emsp;&emsp;&emsp;&emsp;&emsp;&emsp;&emsp;&emsp;&emsp;&emsp;&emsp;&emsp;&emsp;&emsp;&ensp;</td>
-    <td nowrap align="center" valign="top"><img src="assets/admin.jpg" alt="Admin page with accounts, TV screens and downloads" width="808"><br><sub><b>Admin page.</b> Accounts and roles, TV pairing, downloads for the menu bar icon and extension.</sub><br>&emsp;&emsp;&emsp;&emsp;&emsp;&emsp;&emsp;&emsp;&emsp;&emsp;&emsp;&emsp;&emsp;&emsp;&emsp;&emsp;&emsp;&emsp;&emsp;&emsp;&emsp;&emsp;&emsp;&emsp;&emsp;&emsp;&emsp;&emsp;&emsp;&emsp;&emsp;&emsp;&emsp;&emsp;&emsp;&emsp;&emsp;&emsp;&emsp;&emsp;&emsp;&emsp;&emsp;&emsp;&emsp;&emsp;&emsp;&emsp;&emsp;&emsp;&emsp;&ensp;</td>
+    <td nowrap align="center" valign="top"><img src="assets/admin.jpg" alt="Admin page: an AI tool key unused for 41 days, what ai-worker stopped in 7 days, the log check line" width="808"><br><sub><b>Admin page.</b> What ai-worker stopped, a check that no log line was changed, AI tool keys left unused.</sub><br>&emsp;&emsp;&emsp;&emsp;&emsp;&emsp;&emsp;&emsp;&emsp;&emsp;&emsp;&emsp;&emsp;&emsp;&emsp;&emsp;&emsp;&emsp;&emsp;&emsp;&emsp;&emsp;&emsp;&emsp;&emsp;&emsp;&emsp;&emsp;&emsp;&emsp;&emsp;&emsp;&emsp;&emsp;&emsp;&emsp;&emsp;&emsp;&emsp;&emsp;&emsp;&emsp;&emsp;&emsp;&emsp;&emsp;&emsp;&emsp;&emsp;&emsp;&emsp;&ensp;</td>
     <td nowrap align="center" valign="top"><img src="assets/login.png" alt="The login page: account name and 6-digit code, or Log in with Telegram" height="377"><br><sub><b>Login.</b> Account name and a 6-digit code, or Log in with Telegram.</sub><br>&emsp;&emsp;&emsp;&emsp;&emsp;&emsp;&emsp;&emsp;&emsp;&emsp;&emsp;&emsp;&emsp;&emsp;&emsp;&emsp;&emsp;&emsp;&emsp;&emsp;&emsp;&emsp;&emsp;&emsp;&emsp;&emsp;&emsp;&emsp;&emsp;&emsp;&emsp;&emsp;&emsp;&emsp;&emsp;&emsp;&emsp;&emsp;&emsp;&emsp;&emsp;&emsp;&emsp;&emsp;&emsp;&emsp;&emsp;&emsp;&emsp;&emsp;&emsp;&ensp;</td>
     <td nowrap align="center" valign="top"><img src="assets/phone.jpg" alt="The board on a narrow screen, one panel under the other" height="377"><br><sub><b>Narrow screen.</b> On a phone the panels stack one under the other, from top to bottom.</sub><br>&emsp;&emsp;&emsp;&emsp;&emsp;&emsp;&emsp;&emsp;&emsp;&emsp;&emsp;&emsp;&emsp;&emsp;&emsp;&emsp;&emsp;&emsp;&emsp;&emsp;&emsp;&emsp;&emsp;&emsp;&emsp;&emsp;&emsp;&emsp;&emsp;&emsp;&emsp;&emsp;&emsp;&emsp;&emsp;&emsp;&emsp;&emsp;&emsp;&emsp;&emsp;&emsp;&emsp;&emsp;&emsp;&emsp;&emsp;&emsp;&emsp;&emsp;&emsp;&ensp;</td>
+    <td nowrap align="center" valign="top"><img src="assets/telegram.jpg" alt="The board's window inside Telegram on a phone: people waiting, 7-day cost, who waits" height="377"><br><sub><b>Inside Telegram.</b> A manager taps the bot's button: who waits, the 7-day cost, quotas.</sub><br>&emsp;&emsp;&emsp;&emsp;&emsp;&emsp;&emsp;&emsp;&emsp;&emsp;&emsp;&emsp;&emsp;&emsp;&emsp;&emsp;&emsp;&emsp;&emsp;&emsp;&emsp;&emsp;&emsp;&emsp;&emsp;&emsp;&emsp;&emsp;&emsp;&emsp;&emsp;&emsp;&emsp;&emsp;&emsp;&emsp;&emsp;&emsp;&emsp;&emsp;&emsp;&emsp;&emsp;&emsp;&emsp;&emsp;&emsp;&emsp;&emsp;&emsp;&emsp;&ensp;</td>
   </tr>
 </table>
 

diff --git a/CHANGELOG.md b/CHANGELOG.md
@@ -2,6 +2,12 @@
 
 Changes that matter to people who install or run AI Worker. The format follows [Keep a Changelog](https://keepachangelog.com/en/1.1.0/), and versions follow [Semantic Versioning](https://semver.org/).
 
+## 0.47.7 - 2026-11-20
+
+### Changed
+- In Vietnamese, the cost and performance report of an AI project or application writes days as DD/MM/YYYY (for example 19/11/2026): the report the `ai-cost-report` skill makes, the print version and the board's **AI projects** page. English keeps YYYY-MM-DD, and so do the CSV, the file names and `--from`/`--to`.
+- The README's row of pictures starts with the cost and performance report (A4) and the **AI projects** page, adds the window inside Telegram, and shows the Admin page with what ai-worker stopped, the log check and AI tool keys left unused. The opening now also names turning a team's procedures into skills.
+
 ## 0.47.6 - 2026-11-20
 
 ### Changed

diff --git a/docs/COMPONENTS.md b/docs/COMPONENTS.md
@@ -8,7 +8,7 @@ Every part of AI Worker, where it runs, what it needs and which version is pinne
 
 | Part | Runs on | Language | Version |
 |---|---|---|---|
-| Plugin (hooks, `/office`, skills) | Staff computers, inside Claude Code | TypeScript | `version` in `.claude-plugin/plugin.json` (now 0.47.6) |
+| Plugin (hooks, `/office`, skills) | Staff computers, inside Claude Code | TypeScript | `version` in `.claude-plugin/plugin.json` (now 0.47.7) |
 | Dashboard server (webhook) | Linux server | Python, standard library only; data in SQLite | Same as the plugin release |
 | 3D office page | Browser | JavaScript, three.js | Same as the plugin release |
 | Menu bar icon | macOS, Windows, Ubuntu | Python (SwiftBar on Mac, Ubuntu), Swift app (`macos-app/`), PowerShell and C# (Windows) | Built by the server for each download |
